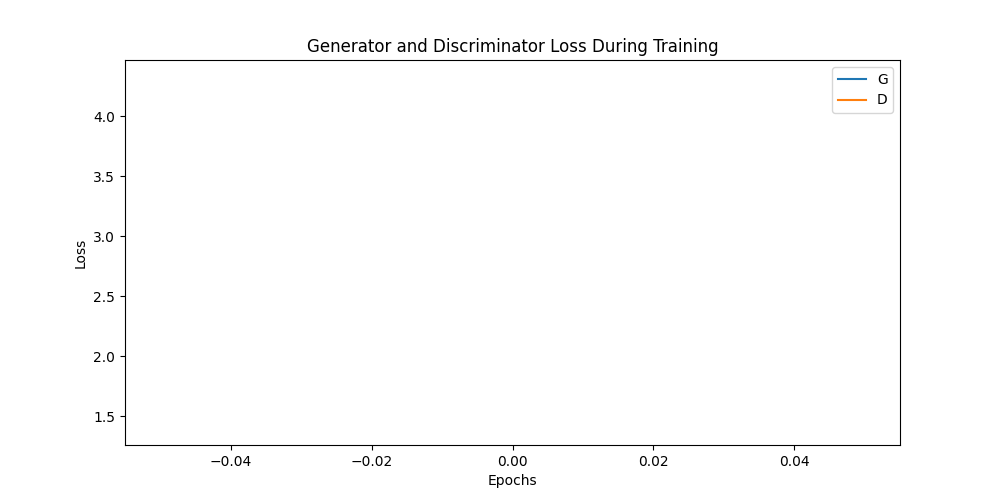
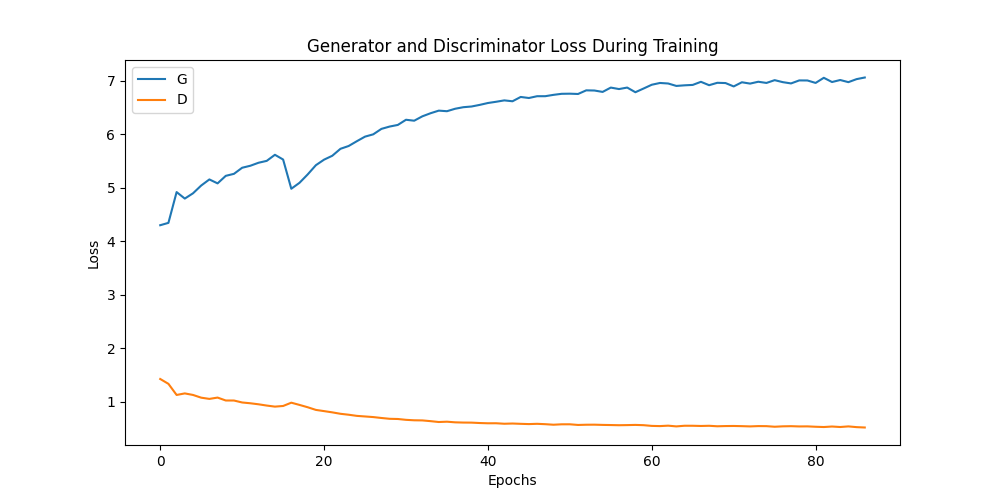
up

diff --git a/v28_cloud_generate.py b/v28_cloud_generate.py
@@ -1,0 +1,119 @@
+import argparse
+
+import torch
+import torchvision.utils as vutils
+from torch.utils.data import Dataset, random_split, DataLoader
+import torchvision.transforms as T
+import numpy as np
+import matplotlib.pyplot as plt
+
+from models.cloud_model18 import Generator
+from v2_utils import *
+from visualization import *
+from v18_dataset import NasaDataset
+from v28_config import params
+
+# create directory to save checkpoints
+saved_model_root_dir = "v28_saved_model/sza_"+str(params['sza_list2'])+"_vza_"+str(params['vza_list2'])
+
+
+
+# noise1 , _ = noise_sample(10,10,0,128,9,device)
+dataset_dir1 = "/nfs/rs/psanjay/users/ztushar1/LES_vers1_multiangle_results"
+# dataset_dir1 = "/home/local/AD/ztushar1/Data/LES_vers1_multiangle_results"
+# root_data_dir ="/home/local/AD/ztushar1/multi-view-cot-retrieval/LES_MultiView_100m_64/"
+root_data_dir ="/home/ztushar1/psanjay_user/multi-view-cot-retrieval/LES_MultiView_100m_64/"
+
+# sza_list = [60.0,40.0,20.0,4.0]
+vza_list1 = params['vza_list1']
+vza_list2 = params['vza_list2']
+sza_list1 = params['sza_list1']
+sza_list2 = params['sza_list2']
+
+f = np.arange(1,31)
+g = np.arange(61,103)
+h = np.concatenate((f,g))
+
+
+# train_data = NasaDataset(profilelist=h,root_dir=dataset_dir1,
+#                 vza_list1 = vza_list1,vza_list2 = vza_list2, sza_list1 = sza_list1,sza_list2 = sza_list2,
+#                         patch_size=64,stride=10)
+
+# loader = DataLoader(train_data, batch_size=params['batch_size'],shuffle=True)
+# data_mean, data_std = get_mean_and_std(loader)
+
+# print(data_mean,data_std)
+# transform_func = T.Compose([
+# T.Normalize(mean=data_mean, std=data_std)
+# ])
+
+# del loader
+# del train_data
+data_mean, data_std = torch.tensor([0.1329, 0.1087], dtype=torch.float64), torch.tensor([0.1537, 0.0924], dtype=torch.float64)
+transform_func = T.Compose([
+T.Normalize(mean=data_mean, std=data_std)
+])
+
+# test_data = NasaDataset(root_dir=root_data_dir,
+#             filelist="data_split/nadir_to_all/val.csv",
+#             mode="infoGAN",transform=transform_func)
+# test_loader = DataLoader(test_data, batch_size=params['batch_size'],shuffle=False)
+
+
+test_data = NasaDataset(profilelist=np.arange(31,51),root_dir=dataset_dir1,
+                vza_list1 = vza_list1,vza_list2 = vza_list2, sza_list1 = sza_list1,sza_list2 = sza_list2,
+                        patch_size=64,stride=10,transform=transform_func,add_dis=True)
+# test_data = NasaDataset(profilelist=np.arange(31,51),root_dir=dataset_dir1,
+#                 vza_list1 = [0],vza_list2 = [60], sza_list1 = [4.0],sza_list2 = [60.0],
+#                         patch_size=64,stride=10,transform=transform_func,add_dis=True)
+
+dataloader = DataLoader(test_data, batch_size=128,shuffle=False)
+
+
+# Set the device to run on: GPU or CPU.
+device = torch.device("cuda" if(torch.cuda.is_available()) else "cpu")
+# Get the 'params' dictionary from the loaded state_dict.
+# model_params = state_dict['params']
+
+# Create the generator network.
+netG = Generator(13).to(device)
+
+cv_mse_loss = []
+
+for fold in range (5):
+    total_mse_loss=[]
+    saved_model_dir = saved_model_root_dir+"/fold_%01d"%(fold)
+    load_path = saved_model_dir+'/model_final_{}'.format(params['dataset'])
+
+    # Load the checkpoint file
+    state_dict = torch.load(load_path)
+    # Load the trained generator weights.
+    netG.load_state_dict(state_dict['netG'])
+    # print(netG)
+    # Generate image.
+    netG.eval()
+
+    for i, data_batch in enumerate(dataloader, 0):
+
+        r_test, m_test = data_batch['rad_patches'],data_batch['rad_patches2']
+
+        for p_b in range(0, len(r_test)):    
+
+            noise   = r_test[p_b]
+            target  = m_test[p_b]
+            noise   = noise.to(device,dtype=torch.float32)
+
+            with torch.no_grad():
+                generated_img1 = netG(noise).detach().cpu()
+            # generated_img1 = generated_img1.numpy()
+
+            mse_loss = torch.mean((generated_img1-target)**2)
+            total_mse_loss.append(mse_loss)
+
+
+    cv_mse_loss.append(np.mean(total_mse_loss))
+    print("Fold MSE Loss: ",np.mean(total_mse_loss), "Std: ", np.std(total_mse_loss))
+
+print("Test MSE Loss: ",np.mean(cv_mse_loss), "Std: ", np.std(cv_mse_loss))
+    
+print("Done!")

diff --git a/v28_train_ada.py b/v28_train_ada.py
@@ -136,7 +136,7 @@ for fold in range(5):
     except FileExistsError:
         print("folder already exists")
     # initialize the early_stopping object
-    early_stopping = EarlyStopping(patience=25, verbose=True,path=saved_model_dir)
+    early_stopping = EarlyStopping(patience=100, verbose=True,path=saved_model_dir)
 
 
     # Initialise the network.

diff --git a/v29_config.py b/v29_config.py
@@ -1,7 +1,7 @@
 # Dictionary storing network parameters.
 params = {
     'batch_size': 64,# Batch size.
-    'num_epochs': 1,# Number of epochs to train for.
+    'num_epochs': 1000,# Number of epochs to train for.
     'learning_rate': 2e-4,# Learning rate.
     'beta1': 0.5,
     'beta2': 0.999,
